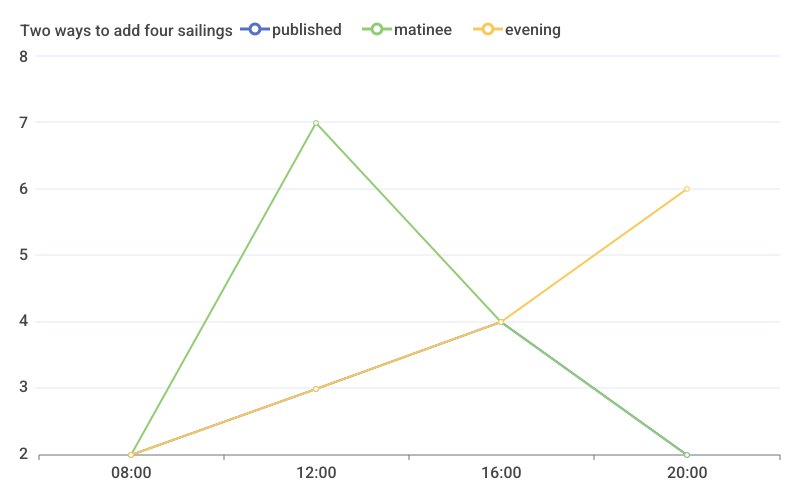
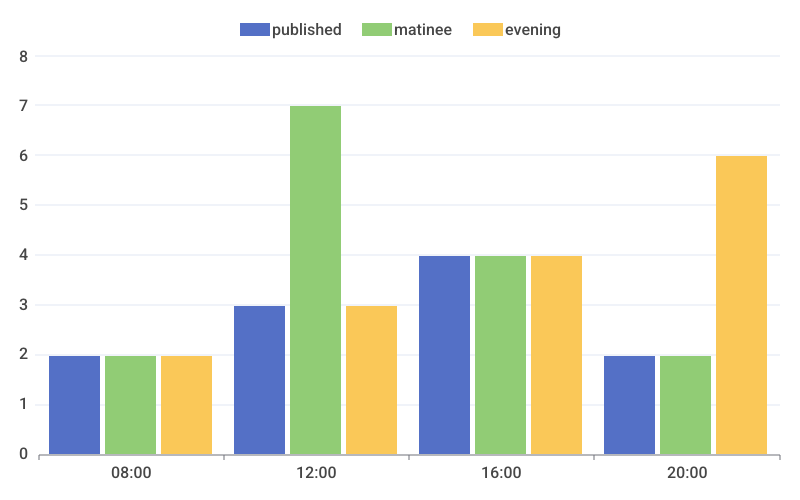
Show each timetable separately with grouped bars.

diff --git a/examples/what-if-workspaces/main.go b/examples/what-if-workspaces/main.go
@@ -22,6 +22,12 @@ import (
 var schedule embed.FS
 
 func compare(output string) error {
+	if err := os.MkdirAll(filepath.Dir(output), 0o755); err != nil {
+		return err
+	}
+	if err := os.Mkdir(output, 0o755); err != nil {
+		return fmt.Errorf("choose a fresh output directory: %w", err)
+	}
 	ctx := context.Background()
 	original, err := schedule.ReadFile("schedule.csv")
 	if err != nil {
@@ -80,12 +86,6 @@ func compare(output string) error {
 		fmt.Printf("%-10s %d sailings\n", plan.name, plan.total)
 	}
 
-	if err := os.MkdirAll(filepath.Dir(output), 0o755); err != nil {
-		return err
-	}
-	if err := os.Mkdir(output, 0o755); err != nil {
-		return fmt.Errorf("choose a fresh output directory: %w", err)
-	}
 	// Read every workspace again after both edits. Export exactly what each environment sees.
 	for i, c := range computers {
 		data, err := c.Environment().Read(ctx, "schedule.csv", 0, -1)
@@ -110,7 +110,7 @@ func compare(output string) error {
 	defer c.Close()
 	result, err := c.Exec(ctx, &gbash.ExecutionRequest{Script: `set -eo pipefail
 paste -d, published.csv matinee.csv evening.csv | awk -F, 'BEGIN {print "time,published,matinee,evening"} NR>1 {print $1 "," $2 "," $4 "," $6}' > comparison.csv
-chart line --x time --y published,matinee,evening --title 'Two ways to add four sailings' comparison.csv --out comparison.png
+chart bar --x time --y published,matinee,evening comparison.csv --out comparison.png
 identify comparison.png`})
 	if err != nil {
 		return err

diff --git a/examples/README.md b/examples/README.md
@@ -50,7 +50,7 @@ MCP Inspector writes a notice, mcporter edits it, and a Python client reads and 
 
 ## What if two dispatchers edit the same timetable?
 
-Two Computer instances start from a shared read-only base. They can make independent changes to the same path and run the same shell command over their own version.
+Three Computer instances start from one read-only timetable. Two make independent changes to the same path and run the same shell command over their own version.
 
 [![Timetables in separate copy-on-write workspaces](what-if-workspaces/sample/comparison.png)](what-if-workspaces/README.md)
 

diff --git a/examples/what-if-workspaces/README.md b/examples/what-if-workspaces/README.md
@@ -1,6 +1,6 @@
 # Try two timetables on the same files
 
-![Computer's line chart comparing the published, matinee and evening timetables](sample/comparison.png)
+![Computer's grouped bars comparing the published, matinee and evening timetables](sample/comparison.png)
 
 There is room for four extra ferry sailings. One dispatcher puts them at noon. Another puts them in the evening. Each edits the same filename in their own Computer.
 
